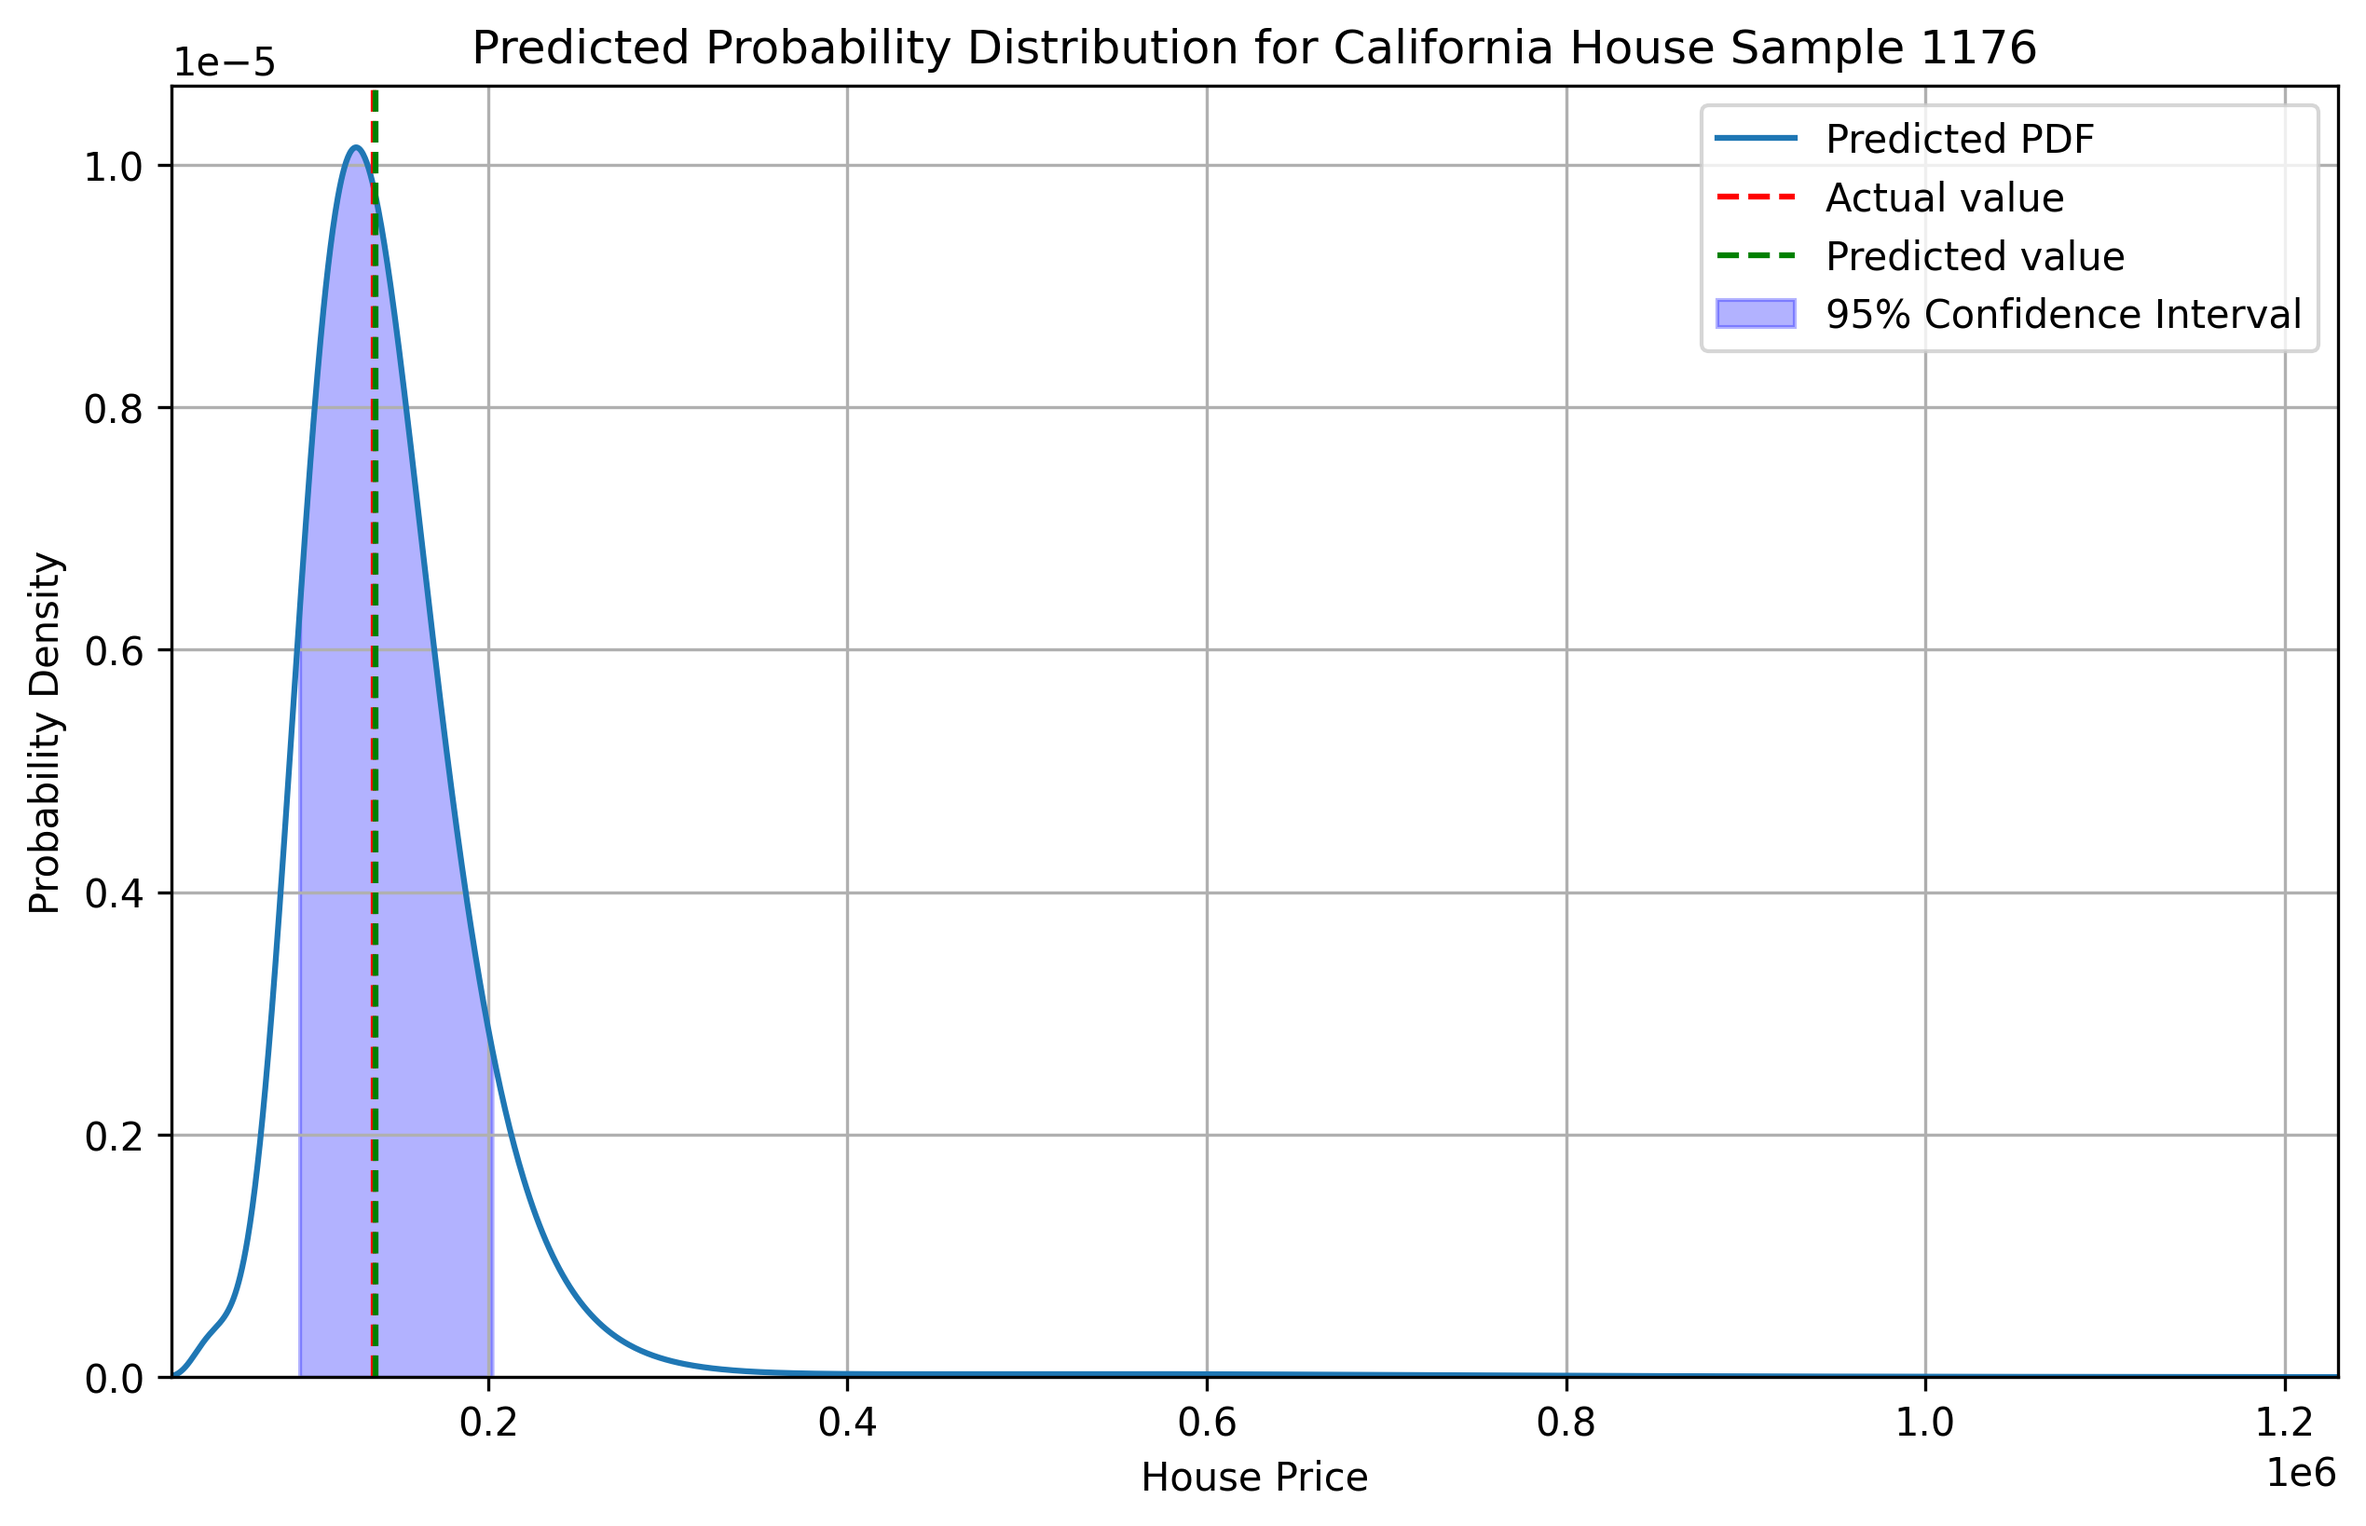
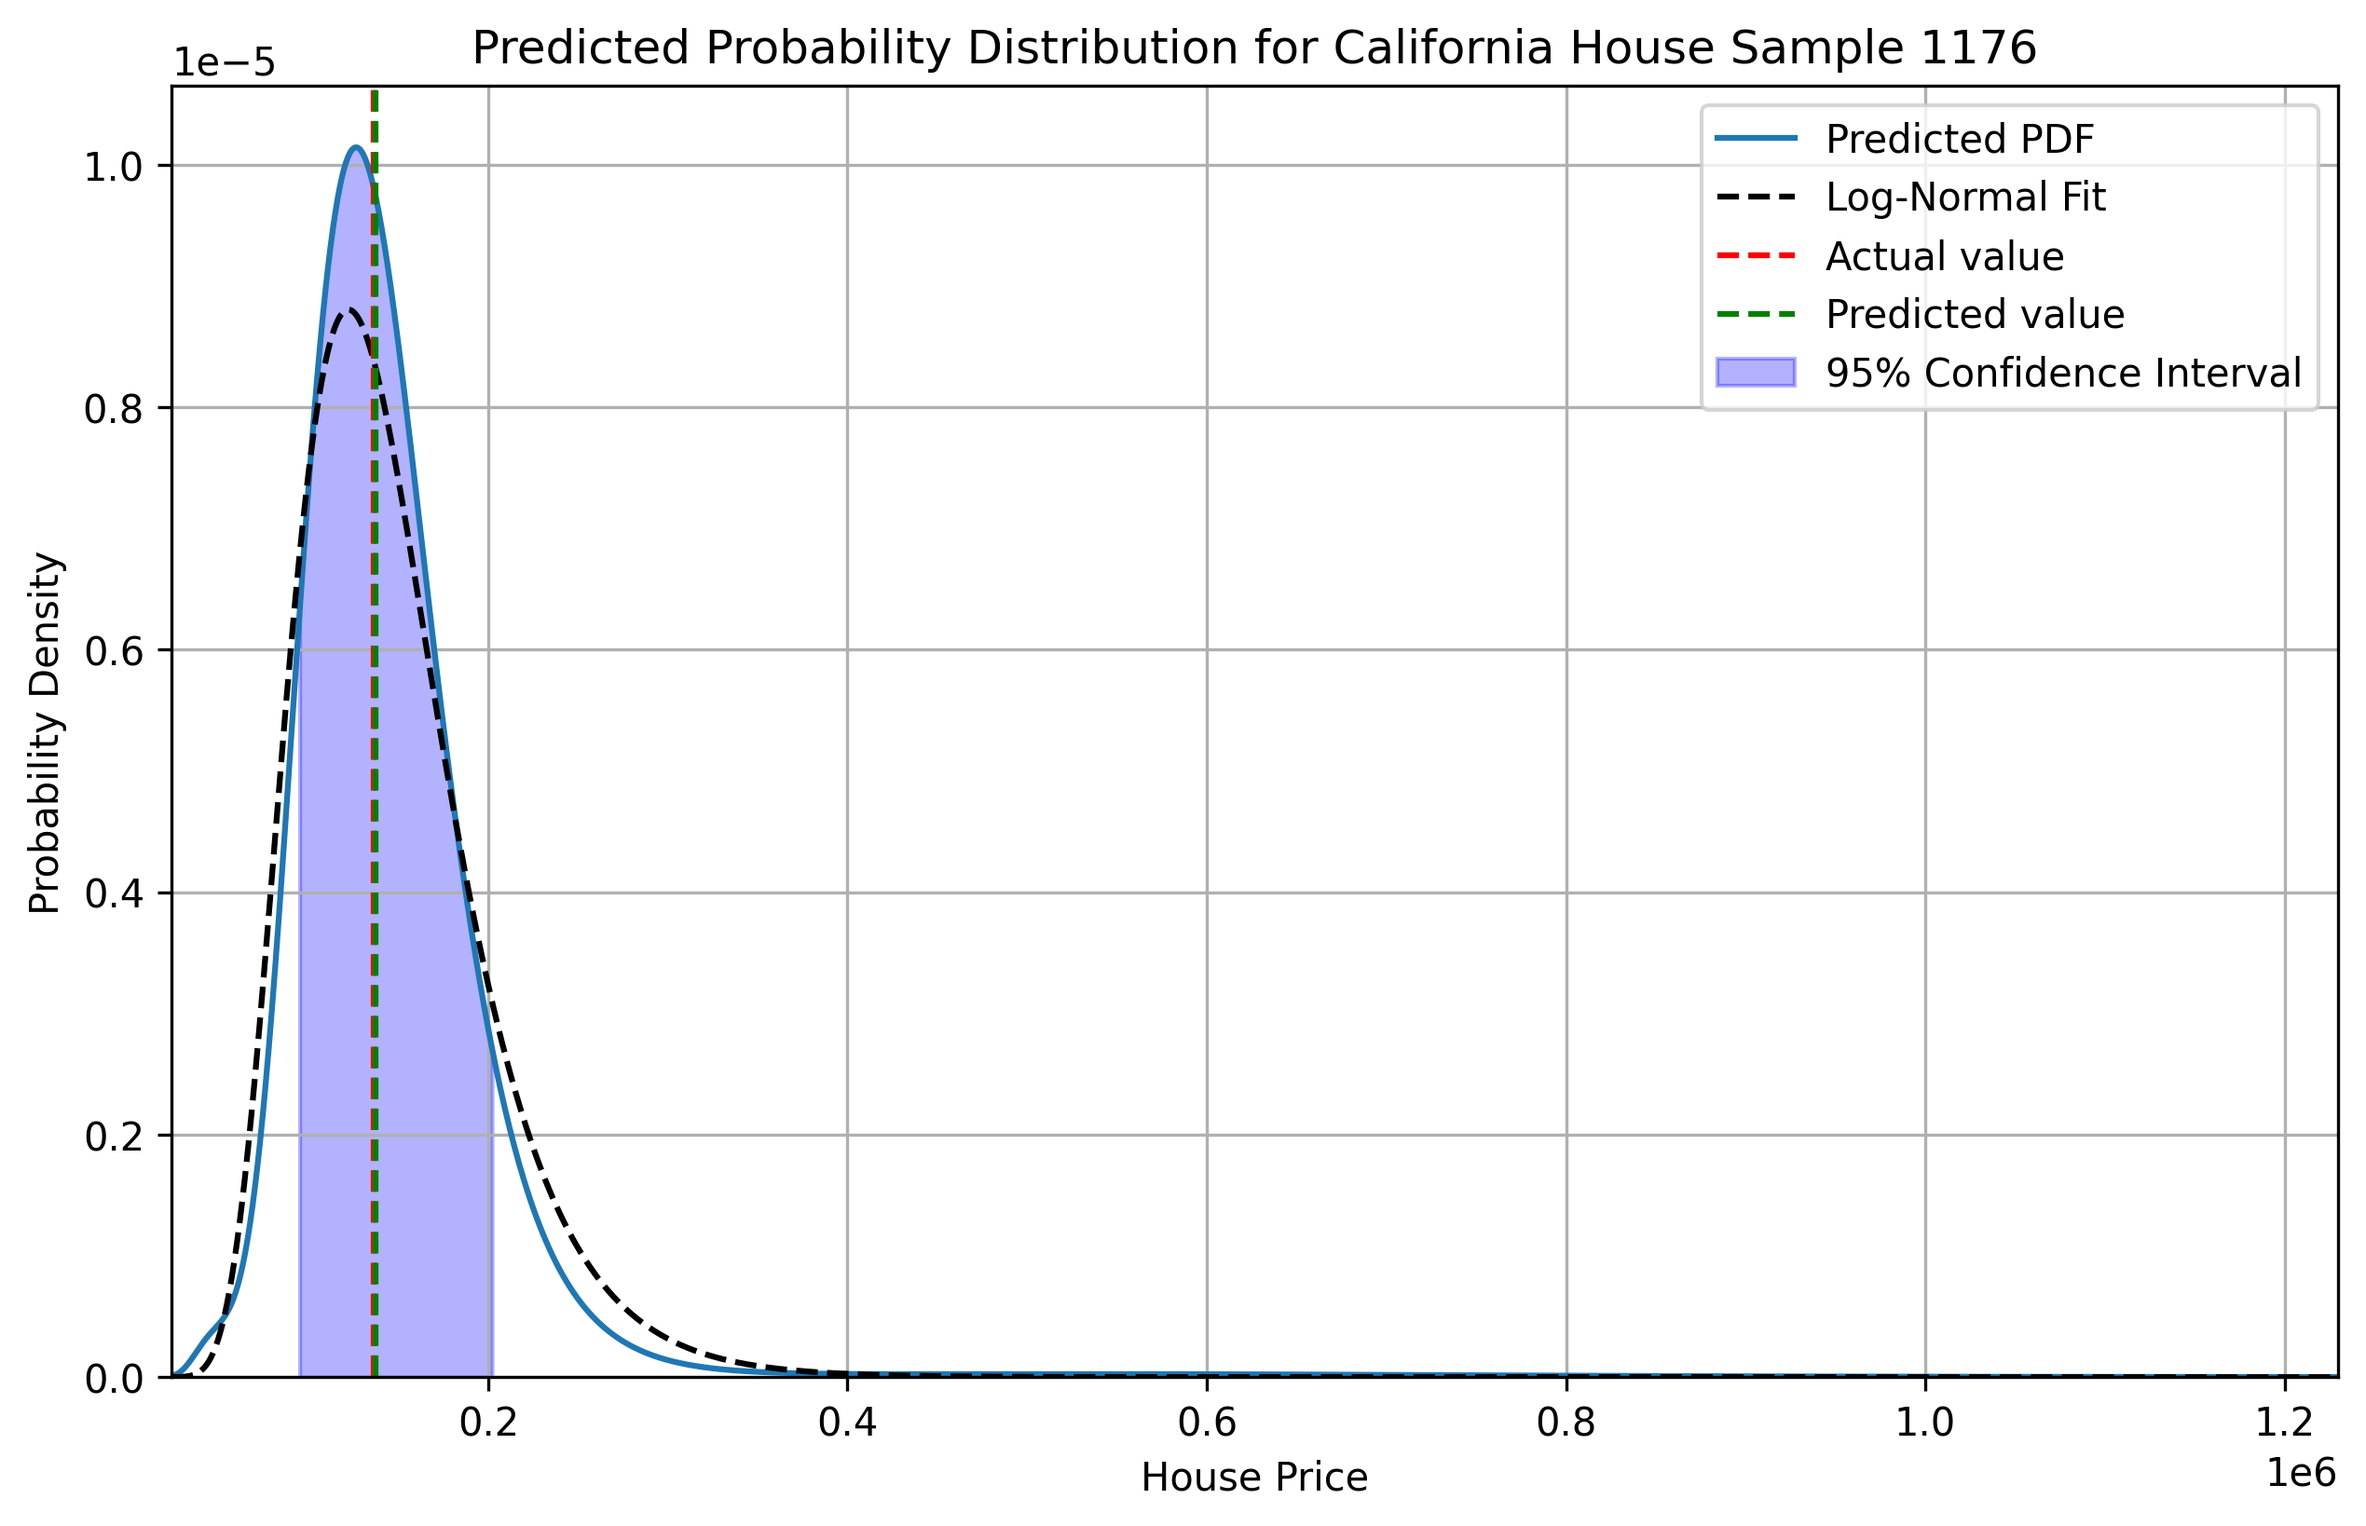
Add log-normal fit to the examples

Changed region(s): [[0.7156, 0.1245, 0.9957, 0.2802], [0.3111, 0.8718, 0.3423, 0.9029]]

diff --git a/prob_gbt/examples/example.py b/prob_gbt/examples/example.py
@@ -7,6 +7,7 @@ from sklearn.model_selection import train_test_split
 from matplotlib.gridspec import GridSpec
 from tqdm import tqdm
 from scipy.integrate import cumulative_trapezoid
+from scipy.stats import norm, lognorm
 
 # Handle imports for both direct run and package import
 if __name__ == "__main__":
@@ -247,8 +248,20 @@ def main():
     # where d/dy(log1p(y)) = 1/(1+y)
     pdf_values = pdf_values_log / (1 + x_values)
     
+    # Fit a log-normal distribution (which is appropriate for positive-only data)
+    # First calculate mean and std of the log-transformed data (log1p space)
+    weights = pdf_values_log / np.sum(pdf_values_log)
+    log_mean = np.sum(x_values_log * weights)
+    log_std = np.sqrt(np.sum(weights * (x_values_log - log_mean)**2))
+    
+    # Generate log-normal distribution PDF values in original space
+    normal_pdf = lognorm.pdf(x_values, s=log_std, scale=np.exp(log_mean))
+    # Scale to match the predicted PDF area
+    normal_pdf_scaled = normal_pdf * (np.sum(pdf_values) / np.sum(normal_pdf))
+    
     plt.figure(figsize=(10, 6))
     plt.plot(x_values, pdf_values, label='Predicted PDF')
+    plt.plot(x_values, normal_pdf_scaled, 'k--', label='Log-Normal Fit')
     plt.axvline(x=y_raw_test[sample_idx], color='r', linestyle='--', label='Actual value')
     plt.axvline(x=y_pred[sample_idx], color='g', linestyle='--', label='Predicted value')
     plt.fill_between(x_values, pdf_values, 
@@ -305,8 +318,20 @@ def main():
         # Get prediction for this sample (already calculated)
         pred_val = y_pred[idx]
         
+        # Fit a log-normal distribution for comparison
+        # First calculate mean and std of the log-transformed data
+        weights = pdf_vals_log / np.sum(pdf_vals_log)
+        log_mean = np.sum(x_vals_log * weights)
+        log_std = np.sqrt(np.sum(weights * (x_vals_log - log_mean)**2))
+        
+        # Generate log-normal distribution PDF values in original space
+        normal_pdf = lognorm.pdf(x_vals, s=log_std, scale=np.exp(log_mean))
+        # Scale to match the predicted PDF area
+        normal_pdf_scaled = normal_pdf * (np.sum(pdf_vals) / np.sum(normal_pdf))
+        
         # Plot the distribution and vertical lines
         axes[i].plot(x_vals, pdf_vals, label='PDF')
+        axes[i].plot(x_vals, normal_pdf_scaled, 'k--', label='Log-Normal Fit')
         axes[i].axvline(x=y_raw_test[idx], color='r', linestyle='--', label='Actual')
         axes[i].axvline(x=pred_val, color='g', linestyle='--', label='Predicted')
         
